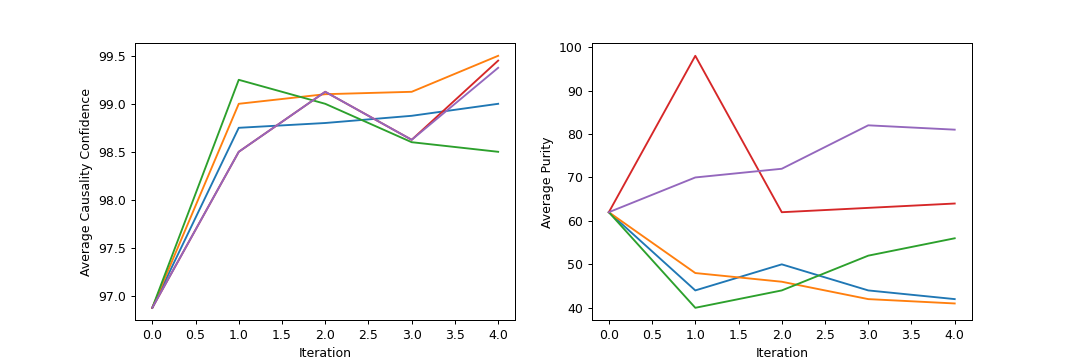
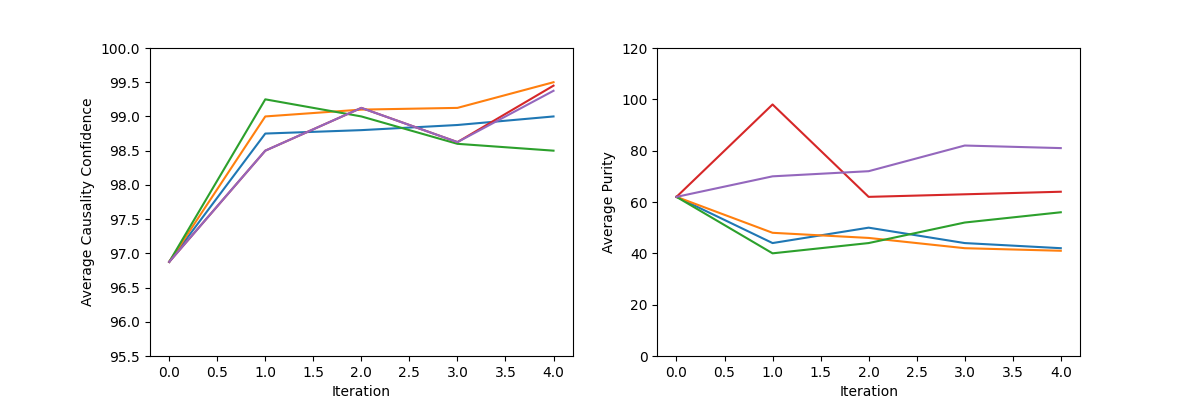
further improvements in output graph

diff --git a/src/out_plot.py b/src/out_plot.py
@@ -1,36 +1,40 @@
 """Creates output plots."""
 import matplotlib.pyplot as plt
+import numpy as np
 
 
-def plot_for_mu(avg_causal_by_mu, avg_purity_by_mu):
-    fig, axes = plt.subplots(nrows=1, ncols=2, figsize=(12, 4), dpi=90)
+def plot_causal_purity(avg_causal, avg_purity, iterations, outfile):
+    fig, axes = plt.subplots(nrows=1, ncols=2, figsize=(12, 4))
     ax = axes[0]
-    for mu, causal in avg_causal_by_mu.items():
+    for mu, causal in avg_causal.items():
         ax.plot(causal)
     ax.set_xlabel('Iteration')
+    # ax.set_xticks(np.arange(1,7))
+    ax.set_yticks(np.arange(95.5, 100.5, .5))
     ax.set_ylabel('Average Causality Confidence')
 
     ax = axes[1]
-    for mu, purity in avg_purity_by_mu.items():
+    for mu, purity in avg_purity.items():
         ax.plot(purity)
     ax.set_xlabel('Iteration')
     ax.set_ylabel('Average Purity')
+    # ax.set_xticks(np.arange(1, 7))
+    ax.set_yticks(np.arange(0, 125, 20))
     # plt.show()
-    plt.savefig('mu_graph.png')
+    plt.savefig(outfile)
 
 
-def plot_for_tn(avg_causal_by_tn, avg_purity_by_tn):
-    fig, axes = plt.subplots(nrows=1, ncols=2, figsize=(12, 4), dpi=90)
-    ax = axes[0]
-    for mu, causal in avg_causal_by_tn.items():
-        ax.plot(causal)
-    ax.set_xlabel('Iteration')
-    ax.set_ylabel('Average Causality Confidence')
+def plot_for_mu(avg_causal_by_mu, avg_purity_by_mu, iterations=5):
+    plot_causal_purity(
+        avg_causal_by_mu,
+        avg_purity_by_mu,
+        iterations,
+        'mu_graph.png')
 
-    ax = axes[1]
-    for mu, purity in avg_purity_by_tn.items():
-        ax.plot(purity)
-    ax.set_xlabel('Iteration')
-    ax.set_ylabel('Average Purity')
-    # plt.show()
-    plt.savefig('tn_graph.png')
+
+def plot_for_tn(avg_causal_by_tn, avg_purity_by_tn, iterations=5):
+    plot_causal_purity(
+        avg_causal_by_tn,
+        avg_purity_by_tn,
+        iterations,
+        'tn_graph.png')

diff --git a/src/test/test_out_plot.py b/src/test/test_out_plot.py
@@ -43,5 +43,5 @@ class TestOutPlot(unittest.TestCase):
             'TNVar': [40, 91, 87, 85, 89]
         }
         out_plot.plot_for_tn(
-            avg_causality_dummy_by_tn, 
+            avg_causality_dummy_by_tn,
             avg_purity_dummy_by_tn)
